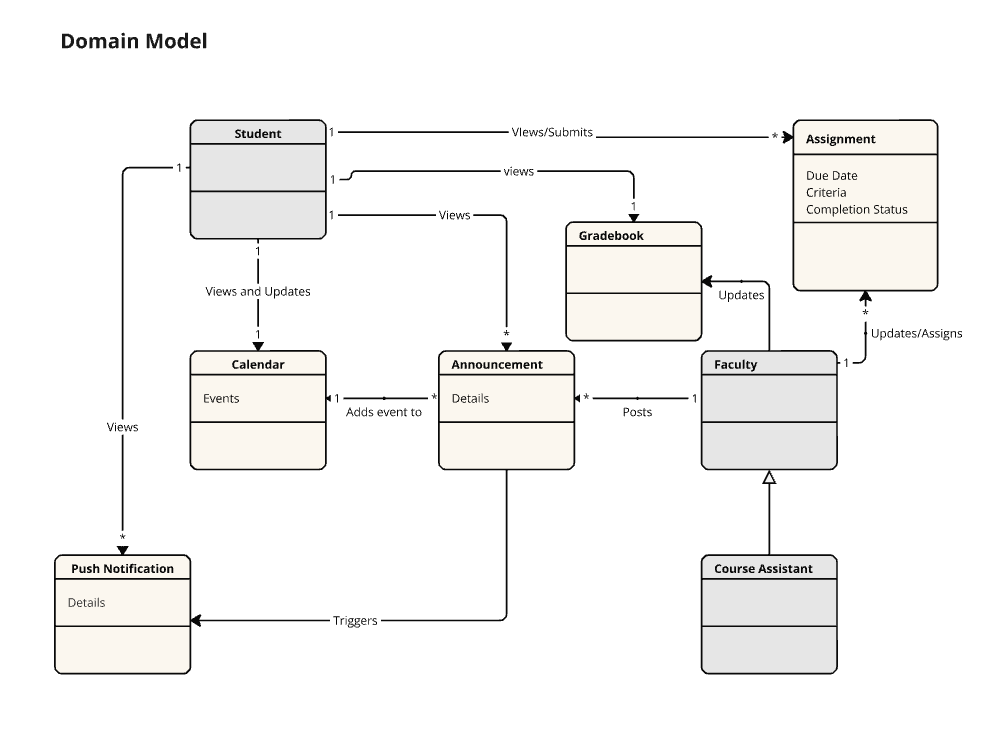
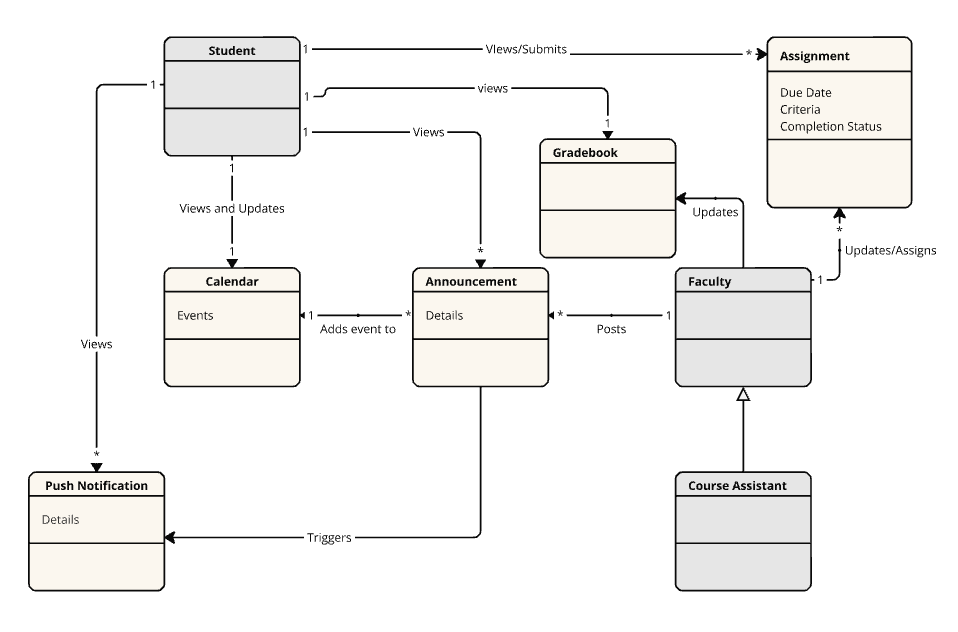
HW 6 domain model subject to change
So sorry for the many commits I am struggling with pathing for some reason

Changed region(s): [[0.0303, 0.0301, 0.9687, 0.962], [0.0303, 0.932, 0.1514, 0.962]]

diff --git a/README.md b/README.md
@@ -95,4 +95,4 @@ The One Stop Shop application seeks to address the shortfalls of RIT’s apps by
 ![One-Stop-Shop Use Case Diagram](https://github.com/user-attachments/assets/59c0e222-78ae-4d51-a549-6585090a8aa9)
 
 ## Domain Model
-![One-Stop-Shop Domain-Model](assets\domain-model.png)
+![One-Stop-Shop Domain-Model](./assets/domain-model.png)
